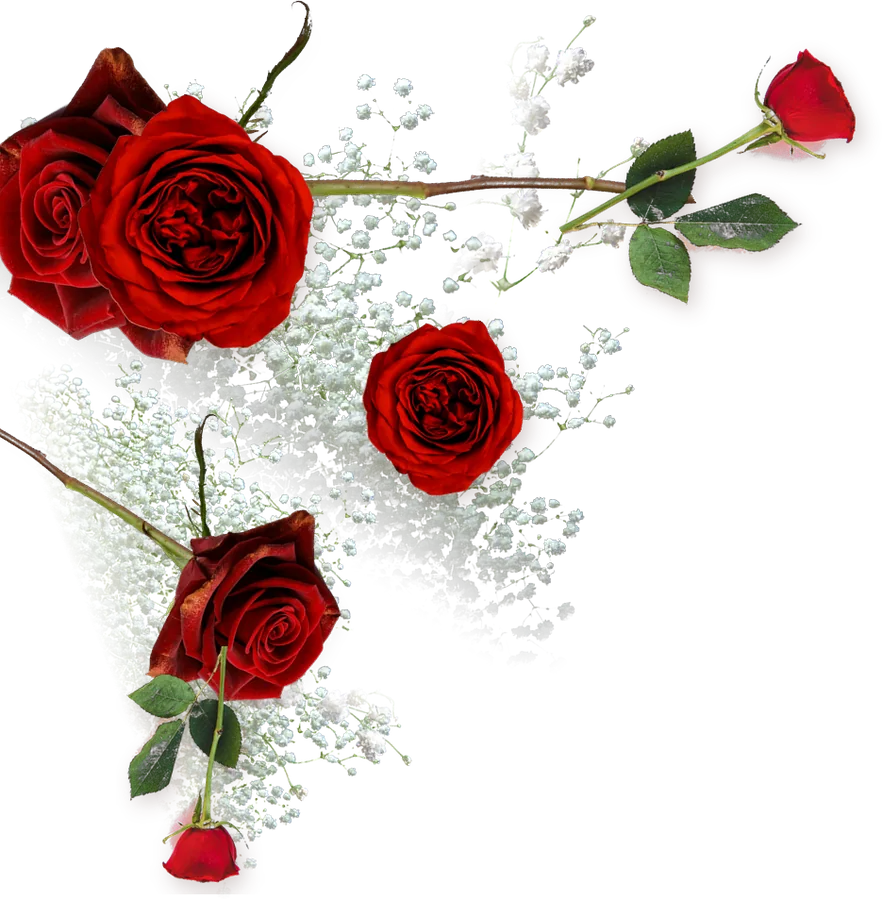
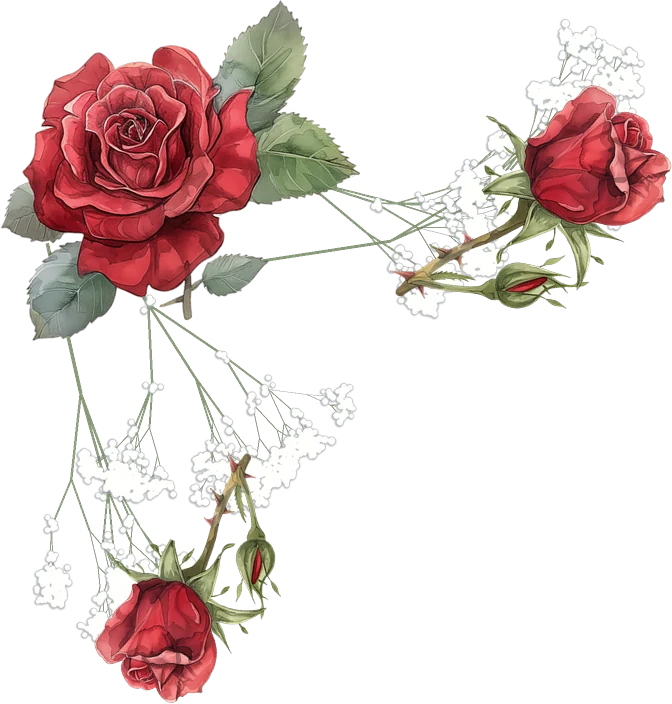
Watercolour roses and baby's breath arrangements

diff --git a/css/style.css b/css/style.css
@@ -354,8 +354,8 @@ p { margin: 0 0 1em; }
 .garland { display: none; }
 .wreath { position: relative; width: fit-content; margin: 0 auto; padding: 0 .2em; }
 .wreath__flowers { position: absolute; width: clamp(220px, 23vw, 350px); pointer-events: none; z-index: -1; }
-.wreath__flowers--tl { top: -26%; left: -58%; }
-.wreath__flowers--br { bottom: -20%; right: -72%; transform: rotate(180deg); }
+.wreath__flowers--tl { top: -6%; left: -74%; }
+.wreath__flowers--br { bottom: -8%; right: -78%; transform: rotate(180deg); }
 .intro, .page-head { position: relative; z-index: 0; }
 
 /* top is set from the header height in main.js, so the flowers start just under the menu */

diff --git a/tools/flowers.py b/tools/flowers.py
@@ -1,0 +1,161 @@
+#!/usr/bin/env python3
+"""Builds the watercolour flower arrangements in img/flowers/.
+
+Roses: free watercolour rose clipart from Pixabay (Pixabay Content License,
+free for personal & commercial use, no attribution required):
+https://pixabay.com/illustrations/rose-bloom-petals-flower-plant-9551838/
+Baby's breath: painted procedurally below (thin sage stems + soft white florets).
+
+usage: python3 tools/flowers.py <path to rose-9551838.png>   (needs Pillow + numpy)
+"""
+import math
+import sys
+from pathlib import Path
+
+import numpy as np
+from PIL import Image, ImageDraw, ImageFilter
+
+OUT = Path(__file__).resolve().parent.parent / "img" / "flowers"
+SS = 2
+STEM = (132, 152, 116, 255)
+SHADE = (172, 178, 186)
+
+
+def pieces(sheet_path):
+    sheet = Image.open(sheet_path).convert("RGBA")
+
+    def cut(box, clear=()):
+        p = sheet.crop(box)
+        d = ImageDraw.Draw(p)
+        for c in clear:  # remove bits of neighbouring motifs
+            d.rectangle([c[0] - box[0], c[1] - box[1], c[2] - box[0], c[3] - box[1]], fill=(0, 0, 0, 0))
+        return keep_main_parts(p)
+
+    return {
+        "stem_rose": cut((20, 20, 925, 1240), clear=[(745, 20, 925, 470), (645, 770, 925, 1240)]),
+        "rose": cut((640, 760, 1262, 1262)),
+        "bud": cut((740, 30, 1240, 770), clear=[(740, 470, 940, 770)]),
+    }
+
+
+def keep_main_parts(im, min_share=0.04):
+    """Drop small stray scraps left over from cropping (keeps big connected parts)."""
+    from collections import deque
+    n = 200
+    small = np.asarray(im.split()[3].resize((n, n)).filter(ImageFilter.MaxFilter(3))) > 25
+    label = np.zeros((n, n), int)
+    sizes = [0]
+    for y in range(n):
+        for x in range(n):
+            if small[y, x] and not label[y, x]:
+                k = len(sizes); q = deque([(y, x)]); label[y, x] = k; cnt = 0
+                while q:
+                    cy, cx = q.popleft(); cnt += 1
+                    for ny, nx in ((cy + 1, cx), (cy - 1, cx), (cy, cx + 1), (cy, cx - 1)):
+                        if 0 <= ny < n and 0 <= nx < n and small[ny, nx] and not label[ny, nx]:
+                            label[ny, nx] = k; q.append((ny, nx))
+                sizes.append(cnt)
+    keep = np.isin(label, [i for i, c in enumerate(sizes) if i and c >= max(sizes) * min_share])
+    mask = Image.fromarray((keep * 255).astype(np.uint8)).resize(im.size, Image.NEAREST).filter(ImageFilter.MaxFilter(5))
+    a = np.minimum(np.asarray(im.split()[3]), np.asarray(mask))
+    im = im.copy(); im.putalpha(Image.fromarray(a))
+    return im.crop(im.getbbox())
+
+
+def gypsophila(length, ang, seed, depth=5, spread=0.55):
+    """Paint one airy spray of baby's breath on its own transparent layer."""
+    rng = np.random.default_rng(seed)
+    w = h = int(length * 3.2)
+    ox, oy = w / 2, h / 2
+    lines, florets = [], []
+
+    def branch(x0, y0, L, a, d):
+        x1, y1 = x0 + math.cos(a) * L, y0 + math.sin(a) * L
+        lines.append(((x0, y0), (x1, y1), max(1.0, d * 0.7)))
+        if d == 0:
+            florets.append((x1, y1))
+            return
+        for _ in range(int(rng.integers(2, 4))):
+            branch(x1, y1, L * rng.uniform(0.52, 0.7), a + rng.uniform(-spread, spread), d - 1)
+        if rng.random() < 0.45:
+            florets.append((x1, y1))
+
+    branch(ox, oy, length * 0.55, ang, depth)
+    big = Image.new("RGBA", (w * SS, h * SS), (0, 0, 0, 0))
+    d = ImageDraw.Draw(big)
+    for a, b, wd in lines:
+        d.line([(a[0] * SS, a[1] * SS), (b[0] * SS, b[1] * SS)], fill=STEM, width=max(1, int(wd * SS)))
+    dots = []
+    for fx, fy in florets:
+        for _ in range(int(rng.integers(4, 8))):
+            dots.append((fx + rng.normal(0, 4), fy + rng.normal(0, 4), rng.uniform(2.2, 3.8)))
+    shade = Image.new("L", big.size, 0)
+    ds = ImageDraw.Draw(shade)
+    petals = Image.new("L", big.size, 0)
+    dp = ImageDraw.Draw(petals)
+    for x, y, r in dots:  # soft grey-blue edge so white florets read on cream paper
+        ds.ellipse([(x - r * 1.3) * SS, (y - r * 1.3) * SS, (x + r * 1.3) * SS, (y + r * 1.3) * SS], fill=190)
+        dp.ellipse([(x - r * 0.95 + 0.6) * SS, (y - r * 0.95 - 0.6) * SS, (x + r * 0.95 + 0.6) * SS, (y + r * 0.95 - 0.6) * SS], fill=255)
+    shade = shade.filter(ImageFilter.GaussianBlur(0.9 * SS))
+    petals = petals.filter(ImageFilter.GaussianBlur(0.4 * SS))
+    big.alpha_composite(Image.merge("RGBA", (*[Image.new("L", big.size, c) for c in SHADE], shade)))
+    big.alpha_composite(Image.merge("RGBA", (*[Image.new("L", big.size, c) for c in (255, 255, 252)], petals)))
+    im = big.resize((w, h), Image.LANCZOS)
+    return im.crop(im.getbbox())
+
+
+def place(canvas, im, x, y, scale=1.0, rot=0.0, flip=False):
+    if flip:
+        im = im.transpose(Image.FLIP_LEFT_RIGHT)
+    im = im.resize((max(1, int(im.width * scale)), max(1, int(im.height * scale))), Image.LANCZOS)
+    if rot:
+        im = im.rotate(rot, resample=Image.BICUBIC, expand=True)
+    layer = Image.new("RGBA", canvas.size, (0, 0, 0, 0))
+    layer.paste(im, (int(x - im.width / 2), int(y - im.height / 2)), im)
+    canvas.alpha_composite(layer)
+
+
+def save(canvas, name, size):
+    im = canvas.crop(canvas.getbbox())
+    im.thumbnail(size, Image.LANCZOS)
+    OUT.mkdir(parents=True, exist_ok=True)
+    im.save(OUT / f"{name}.webp", "WEBP", quality=86, method=6)
+    print(name, im.size)
+
+
+def main(sheet_path):
+    p = pieces(sheet_path)
+    rose, bud, stem_rose = p["rose"], p["bud"], p["stem_rose"]
+
+    # A: loose corner spray, anchored top-left
+    c = Image.new("RGBA", (1100, 1100), (0, 0, 0, 0))
+    place(c, gypsophila(300, -0.15, 1), 470, 170)
+    place(c, gypsophila(260, 0.35, 2), 380, 250)
+    place(c, gypsophila(280, 1.35, 3), 150, 470)
+    place(c, gypsophila(240, 1.0, 4), 250, 380)
+    place(c, bud, 560, 240, 0.42, -62)
+    place(c, bud, 230, 600, 0.36, 160, flip=True)
+    place(c, rose, 210, 200, 0.6, 12)
+    save(c, "flowers-corner", (800, 800))
+
+    # B: airy horizontal garland (phones/tablets + footer)
+    g = Image.new("RGBA", (1800, 700), (0, 0, 0, 0))
+    place(g, gypsophila(300, math.pi - 0.1, 5), 640, 330)
+    place(g, gypsophila(260, math.pi + 0.45, 6), 700, 300)
+    place(g, gypsophila(300, 0.1, 7), 1160, 330)
+    place(g, gypsophila(260, -0.45, 8), 1100, 300)
+    place(g, bud, 520, 380, 0.38, 100, flip=True)
+    place(g, bud, 1280, 380, 0.38, -100)
+    place(g, rose, 900, 360, 0.55, 0)
+    save(g, "flowers-garland", (1400, 560))
+
+    # C: single stem with baby's breath, for accents
+    s = Image.new("RGBA", (1100, 1400), (0, 0, 0, 0))
+    place(s, gypsophila(320, -1.2, 9), 600, 600)
+    place(s, gypsophila(260, -1.9, 10), 450, 640)
+    place(s, stem_rose, 550, 700, 0.8, 0)
+    save(s, "flowers-sprig", (600, 760))
+
+
+if __name__ == "__main__":
+    main(sys.argv[1])

diff --git a/README.md b/README.md
@@ -31,8 +31,9 @@ Then open http://localhost:8080
 ## Photos
 
 Story and gallery photos are placeholders hot-linked from Unsplash (free license).
-The flower decorations in `img/flowers/` were cut out of free Unsplash photos with
-`tools/cutout.py` and arranged with `tools/compose.py` (needs Pillow + numpy). Replace the
+The watercolour flowers in `img/flowers/` are built by `tools/flowers.py`: roses from free
+Pixabay clipart (https://pixabay.com/illustrations/rose-bloom-petals-flower-plant-9551838/,
+Pixabay Content License) + procedurally painted baby's breath. Needs Pillow + numpy. Replace the
 `src` URLs with your own files (e.g. put them in `img/` and use `img/name.jpg`).
 
 ## Quiz facts
